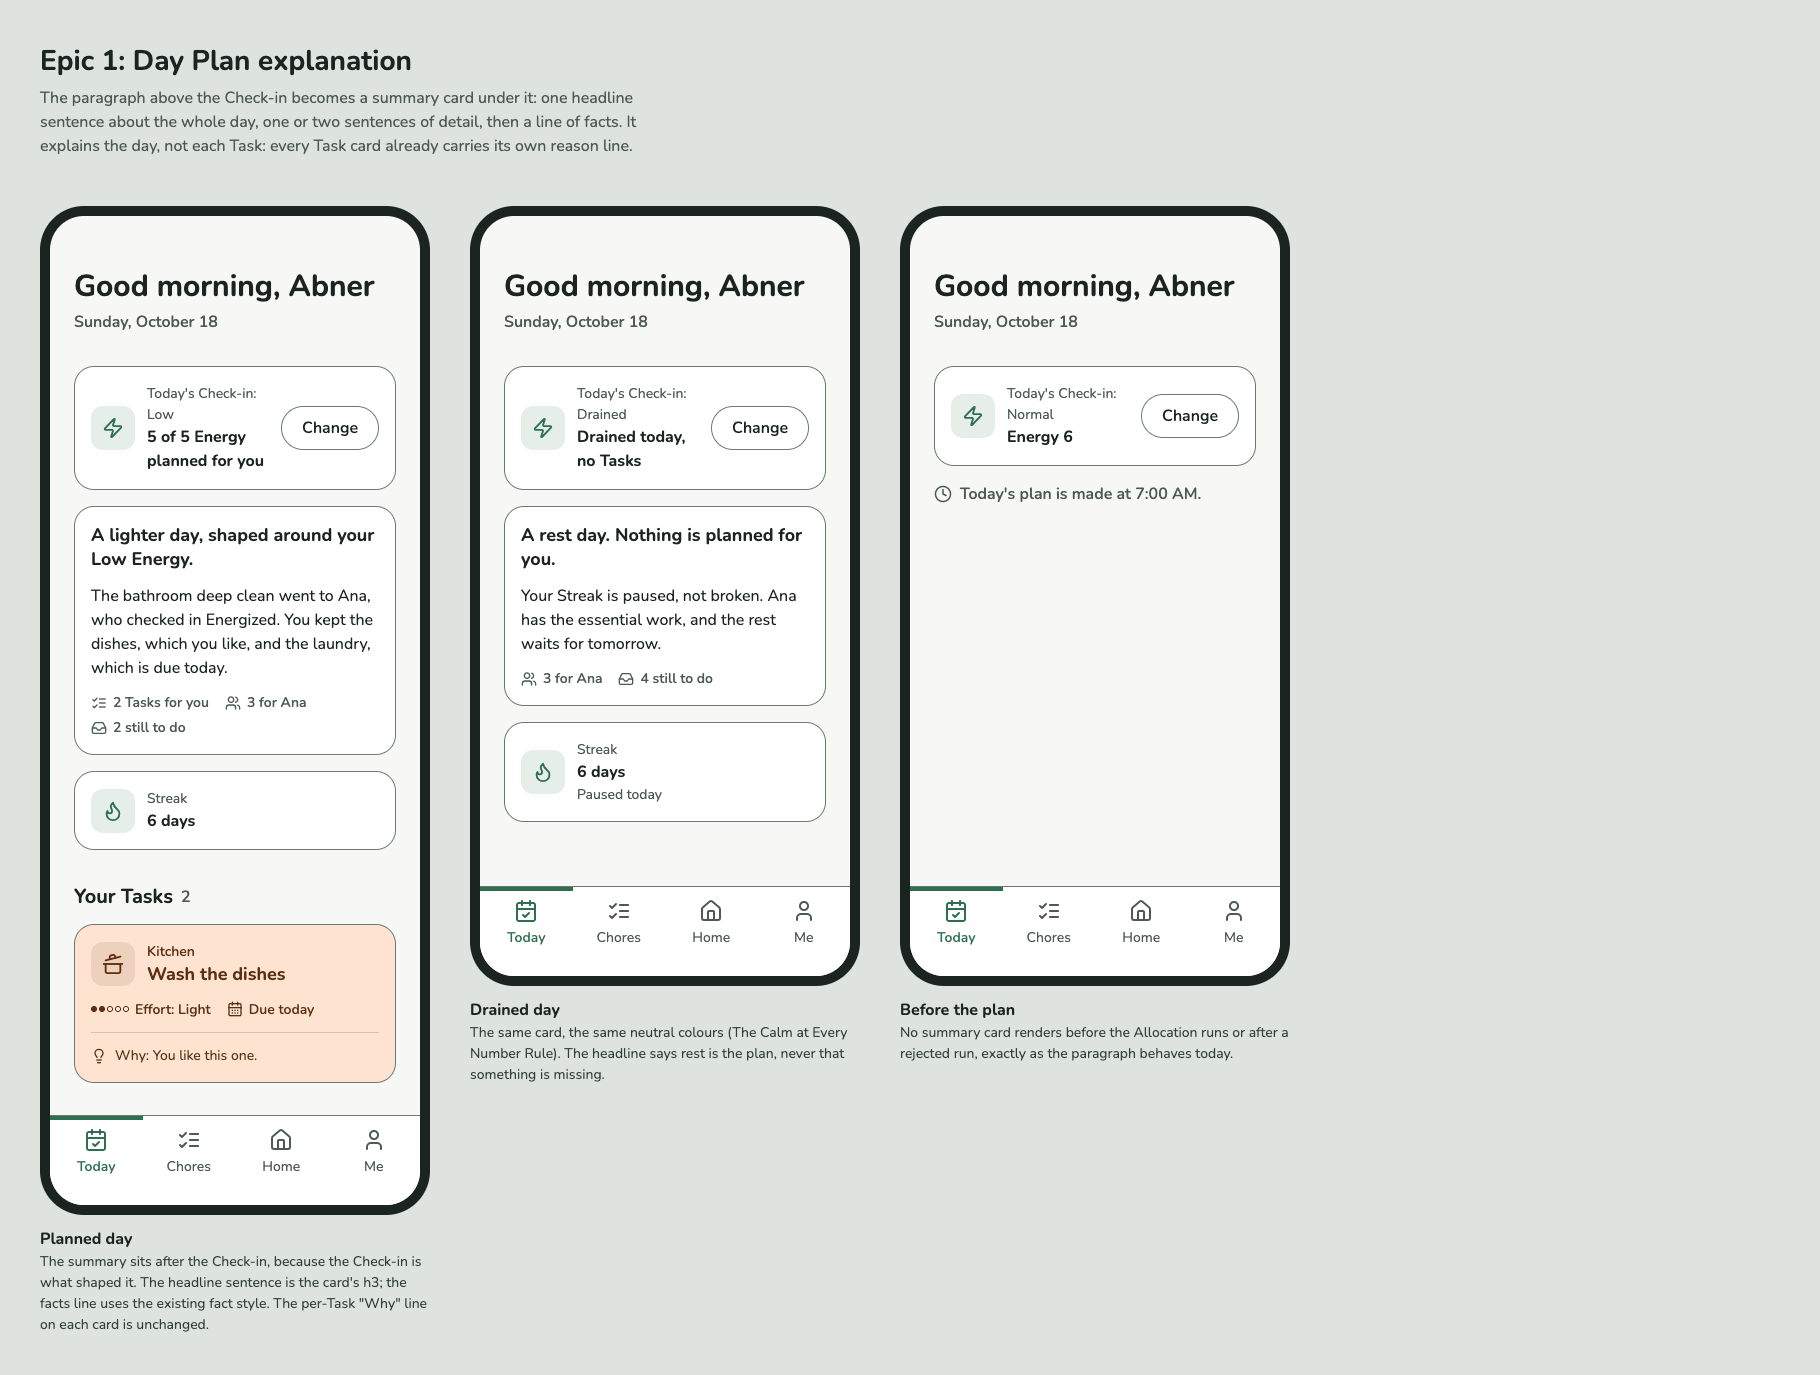
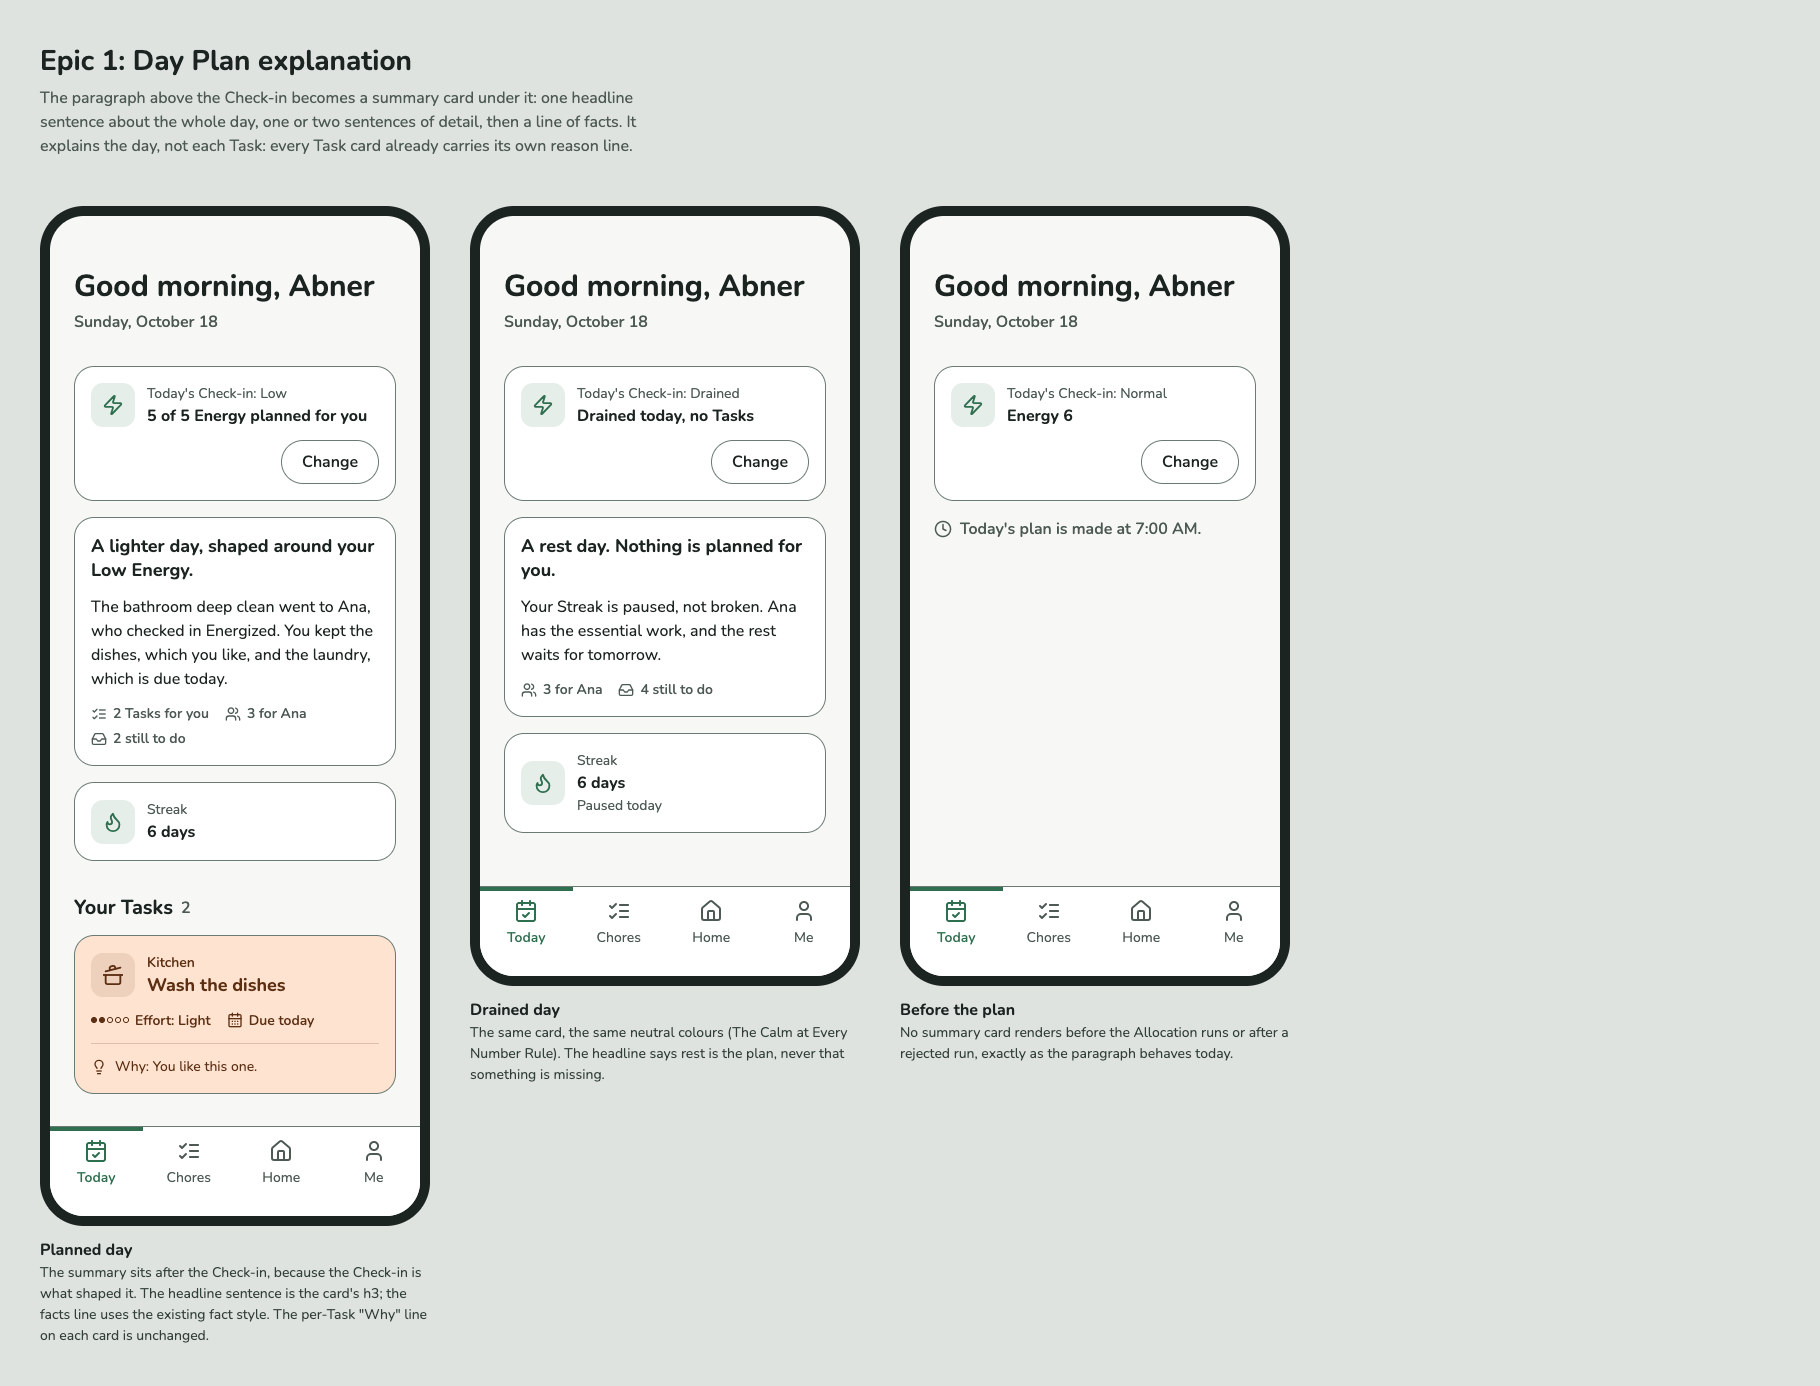
docs(design): render the mocks in pt-BR and let the check-in action wrap

diff --git a/docs/design/mocks-i18n.js b/docs/design/mocks-i18n.js
@@ -1,0 +1,134 @@
+// Open a board with ?lang=pt-BR to render its phones in Brazilian Portuguese. Wording comes from the shipped
+// catalog (web/src/shared/i18n/catalogs/pt-BR.ts) where it exists; new strings follow docs/glossary-pt-BR.md.
+// Captions and board headers stay in English. Any phone string without a translation is logged to the console.
+const PT = {
+  "Good morning, Abner": "Bom dia, Abner",
+  "Sunday, October 18": "domingo, 18 de outubro",
+  "Today's Check-in: Low": "Check-in de hoje: baixa",
+  "Today's Check-in: Drained": "Check-in de hoje: esgotado",
+  "Today's Check-in: Normal": "Check-in de hoje: normal",
+  "5 of 5 Energy planned for you": "5 de 5 planejados",
+  "Change": "Mudar",
+  "A lighter day, shaped around your Low Energy.": "Um dia mais leve, pensado na sua energia baixa.",
+  "The bathroom deep clean went to Ana, who checked in Energized. You kept the dishes, which you like, and the laundry, which is due today.":
+    "A faxina do banheiro ficou com a Ana, que está energizada. Você ficou com a louça, de que gosta, e a roupa, que é para hoje.",
+  "2 Tasks for you": "2 tarefas suas",
+  "3 for Ana": "3 da Ana",
+  "2 still to do": "2 por fazer",
+  "4 still to do": "4 por fazer",
+  "Streak": "Sequência",
+  "6 days": "6 dias",
+  "11 days": "11 dias",
+  "Your Tasks": "Suas tarefas",
+  "Kitchen": "Cozinha",
+  "Bathroom": "Banheiro",
+  "Laundry": "Roupas",
+  "Floors": "Pisos",
+  "Trash": "Lixo",
+  "Wash the dishes": "Lavar a louça",
+  "Fold the laundry": "Dobrar a roupa",
+  "Take out the recycling": "Levar o reciclável",
+  "Take out the trash": "Levar o lixo",
+  "Clean the sink": "Limpar a pia",
+  "Vacuum the living room": "Aspirar a sala",
+  "Deep clean the shower": "Faxinar o box",
+  "Clean the stove": "Limpar o fogão",
+  "Effort: Light": "Esforço: leve",
+  "Effort: Moderate": "Esforço: médio",
+  "Effort: Very light": "Esforço: muito leve",
+  "Effort: Heavy": "Esforço: pesado",
+  "Due today": "Para hoje",
+  "Due Oct 20": "Para 20 de out.",
+  "Why: You like this one.": "Por quê: você gosta deste.",
+  "Why: It is due today.": "Por quê: é para hoje.",
+  "Why: No one has enough Energy left today.": "Por quê: ninguém tem energia sobrando hoje.",
+  "Today": "Hoje",
+  "Chores": "Afazeres",
+  "Home": "Lar",
+  "Me": "Eu",
+  "Drained today, no Tasks": "Esgotado hoje, sem tarefas",
+  "A rest day. Nothing is planned for you.": "Dia de descanso. Nada planejado para você.",
+  "Your Streak is paused, not broken. Ana has the essential work, and the rest waits for tomorrow.":
+    "Sua sequência está pausada, não perdida. A Ana ficou com o essencial e o resto espera amanhã.",
+  "Paused today": "Pausada hoje",
+  "Energy 6": "Energia 6",
+  "Today's plan is made at 7:00 AM.": "O plano de hoje é feito às 7:00.",
+  "Refuse": "Recusar",
+  "Accept": "Aceitar",
+  "Committed": "Assumida",
+  "Done": "Concluir",
+  "Still to do": "Ainda por fazer",
+  "Take": "Pegar",
+  "Done today": "Concluídas hoje",
+  "Done at 8:42 AM": "Concluída às 8:42",
+  "Done at 9:15 AM with": "Concluída às 9:15 com",
+  "Review this Home's Chores": "Revise os afazeres do lar",
+  "We picked 12 Chores from your answers. Untick any you do not need.":
+    "Escolhemos 12 afazeres pelas suas respostas. Desmarque os que não precisar.",
+  "Back": "Voltar",
+  "Add 12 Chores": "Adicionar 12",
+  "6-day Streak": "Sequência de 6 dias",
+  "Baseline": "Energia base",
+  "Your usual Energy on each day of the week. Your Check-in adjusts it for the day.":
+    "Sua energia de costume em cada dia da semana. O check-in ajusta para o dia.",
+  "Preferences": "Preferências",
+  "Work you like is planned for you more often. Essential work still comes first.":
+    "Tarefas de que você gosta entram mais no seu plano. O essencial ainda vem primeiro.",
+  "Restrictions": "Restrições",
+  "Work you cannot do. You are never given it.": "Trabalho que você não pode fazer. Ele nunca é dado a você.",
+  "Add your name and photo": "Adicionar nome e foto",
+  "Mon": "seg", "Tue": "ter", "Wed": "qua", "Thu": "qui", "Fri": "sex", "Sat": "sáb", "Sun": "dom",
+  "Low": "Baixa", "Normal": "Normal", "High": "Alta",
+  "Your name and photo": "Seu nome e foto",
+  "Residents of your Home see these. Both are optional.": "Os moradores do seu lar veem isto. Os dois são opcionais.",
+  "Name": "Nome",
+  "Up to 40 characters.": "Até 40 caracteres.",
+  "Photo": "Foto",
+  "On your page": "Na sua página",
+  "In lists": "Em listas",
+  "Remove": "Remover",
+  "Choose another": "Escolher outra",
+  "Cancel": "Cancelar",
+  "Save": "Salvar",
+  "Other Residents' Tasks": "Tarefas dos outros moradores",
+  "Swap offer": "Oferta de troca",
+  "offers": "oferece",
+  "for your": "pela sua",
+  "Decline": "Recusar",
+  "Accept swap": "Aceitar troca",
+  "Your Home": "Seu lar",
+  "Plans at 7:00 AM, America/Sao Paulo": "Os planos são feitos às 7:00, horário de America/Sao Paulo.",
+  "Residents": "Moradores",
+  "You": "Você",
+  "2 done today": "2 hoje",
+  "3 done today": "3 hoje",
+  "Invite a Resident": "Convidar um morador",
+  "A single-use link, valid for seven days.": "Um link de uso único para quem mora com você. Vale por sete dias.",
+  "Share an invite link": "Compartilhar link do convite",
+  "Home settings": "Ajustes do lar",
+  "Name, planning time and time zone.": "Nome, horário do plano e fuso.",
+  "Leave Home": "Sair deste lar",
+  "day Streak": "dias de sequência",
+  "Tasks done in 7 days": "concluídas em 7 dias",
+  "Done lately": "Concluídas recentemente",
+  "Bathroom · 9:02 AM": "Banheiro · 9:02",
+  "Floors · 9:15 AM, with Abner": "Pisos · 9:15, com Abner",
+  "Yesterday": "Ontem",
+  "Kitchen · 7:40 PM": "Cozinha · 19:40",
+  "Nothing completed in the last 7 days.": "Nada concluído nos últimos 7 dias.",
+};
+
+if (new URLSearchParams(location.search).get("lang") === "pt-BR") {
+  const missing = new Set();
+  for (const phone of document.querySelectorAll(".phone")) {
+    phone.lang = "pt-BR";
+    const walker = document.createTreeWalker(phone, NodeFilter.SHOW_TEXT);
+    for (let node = walker.nextNode(); node; node = walker.nextNode()) {
+      const text = node.textContent.trim();
+      if (!text || /^[\d.]+$|^[A-Z]{2}$|@|^abnerwill|^jrocha$|^Abner$|^Ana$/.test(text)) continue;
+      if (text in PT) node.textContent = node.textContent.replace(text, PT[text]);
+      else missing.add(text);
+    }
+  }
+  if (missing.size) console.log("[mocks-i18n] missing:", JSON.stringify([...missing]));
+}

diff --git a/docs/design/epic-1-day-explanation.html b/docs/design/epic-1-day-explanation.html
@@ -28,7 +28,7 @@
         </div>
 
         <section class="card">
-          <div class="row">
+          <div class="row wrap">
             <span class="tile accent"><i data-lucide="zap"></i></span>
             <div class="grow">
               <p class="sm muted">Today's Check-in: Low</p>
@@ -76,7 +76,7 @@
           <p class="page-sub">Sunday, October 18</p>
         </div>
         <section class="card">
-          <div class="row">
+          <div class="row wrap">
             <span class="tile accent"><i data-lucide="zap"></i></span>
             <div class="grow"><p class="sm muted">Today's Check-in: Drained</p><p class="bold">Drained today, no Tasks</p></div>
             <button class="btn">Change</button>
@@ -108,7 +108,7 @@
           <p class="page-sub">Sunday, October 18</p>
         </div>
         <section class="card">
-          <div class="row">
+          <div class="row wrap">
             <span class="tile accent"><i data-lucide="zap"></i></span>
             <div class="grow"><p class="sm muted">Today's Check-in: Normal</p><p class="bold">Energy 6</p></div>
             <button class="btn">Change</button>
@@ -121,6 +121,7 @@
     <figcaption><strong>Before the plan</strong>No summary card renders before the Allocation runs or after a rejected run, exactly as the paragraph behaves today.</figcaption>
   </figure>
 </main>
+<script src="mocks-i18n.js"></script>
 <script src="https://unpkg.com/lucide@0.460.0/dist/umd/lucide.min.js"></script>
 <script>lucide.createIcons();</script>
 </body>

diff --git a/docs/design/mocks.css b/docs/design/mocks.css
@@ -176,3 +176,8 @@ label.field { display: flex; flex-direction: column; gap: 0.25rem; font-weight: 
 .note { position: absolute; z-index: 2; background: #1c2421; color: #fff; font-size: 0.75rem; font-weight: 700; padding: 0.125rem 0.5rem; border-radius: 99px; }
 
 svg { stroke-width: 2; }
+
+/* A row whose action drops to its own end-aligned line when the text needs the width (pt-BR runs longer). */
+.row.wrap { flex-wrap: wrap; }
+.row.wrap > .grow { flex-basis: 10rem; }
+.row.wrap > .btn { margin-left: auto; }

diff --git a/docs/design/epic-2-today-polish.html b/docs/design/epic-2-today-polish.html
@@ -125,6 +125,7 @@
     <figcaption><strong>Pending and dialogs</strong>A pending action shows an inline spinner in its own button, label kept so the width holds; the rest of the plan's buttons are disabled. The Chores review follows the same rule: Back left, the confirming action right.</figcaption>
   </figure>
 </main>
+<script src="mocks-i18n.js"></script>
 <script src="https://unpkg.com/lucide@0.460.0/dist/umd/lucide.min.js"></script>
 <script>lucide.createIcons();</script>
 </body>

diff --git a/docs/design/epic-3-resident-identity.html b/docs/design/epic-3-resident-identity.html
@@ -151,6 +151,7 @@
     <figcaption><strong>Names everywhere</strong>The greeting uses the display name when set. "Resident 1" becomes the avatar and name, in the others' Tasks and in swap offers.</figcaption>
   </figure>
 </main>
+<script src="mocks-i18n.js"></script>
 <script src="https://unpkg.com/lucide@0.460.0/dist/umd/lucide.min.js"></script>
 <script>lucide.createIcons();</script>
 </body>

diff --git a/docs/design/epic-4-housemates.html b/docs/design/epic-4-housemates.html
@@ -147,6 +147,7 @@
     <figcaption><strong>Home skeleton</strong>Round avatar placeholders in the Residents card, then the Invite card's shape. Same 300ms delay and motion-safe pulse as Today.</figcaption>
   </figure>
 </main>
+<script src="mocks-i18n.js"></script>
 <script src="https://unpkg.com/lucide@0.460.0/dist/umd/lucide.min.js"></script>
 <script>lucide.createIcons();</script>
 </body>

diff --git a/docs/design/README.md b/docs/design/README.md
@@ -1,12 +1,12 @@
 # Design mocks
 
-Mocks for the post-v1 epics, built against [`DESIGN.md`](../../DESIGN.md). Each board is a static HTML page (open it in a browser) with a PNG render for GitHub. Copy in the mocks is illustrative; the i18n catalogs own the real wording.
+Mocks for the post-v1 epics, built against [`DESIGN.md`](../../DESIGN.md). Each board is a static HTML page (open it in a browser; add `?lang=pt-BR` for Brazilian Portuguese) with a PNG render per locale for GitHub. `mocks-i18n.js` holds the pt-BR wording, taken from the shipped catalog where it exists. Copy in the mocks is illustrative; the i18n catalogs own the real wording.
 
-| Epic | Board |
-|---|---|
-| 1. Day Plan explanation | [HTML](epic-1-day-explanation.html) · ![Epic 1](epic-1-day-explanation.png) |
-| 2. Today polish | [HTML](epic-2-today-polish.html) · ![Epic 2](epic-2-today-polish.png) |
-| 3. Resident identity | [HTML](epic-3-resident-identity.html) · ![Epic 3](epic-3-resident-identity.png) |
-| 4. Housemates | [HTML](epic-4-housemates.html) · ![Epic 4](epic-4-housemates.png) |
+| Epic | en-US | pt-BR |
+|---|---|---|
+| 1. Day Plan explanation | [HTML](epic-1-day-explanation.html) · ![Epic 1](epic-1-day-explanation.png) | ![Epic 1 pt-BR](epic-1-day-explanation.pt-BR.png) |
+| 2. Today polish | [HTML](epic-2-today-polish.html) · ![Epic 2](epic-2-today-polish.png) | ![Epic 2 pt-BR](epic-2-today-polish.pt-BR.png) |
+| 3. Resident identity | [HTML](epic-3-resident-identity.html) · ![Epic 3](epic-3-resident-identity.png) | ![Epic 3 pt-BR](epic-3-resident-identity.pt-BR.png) |
+| 4. Housemates | [HTML](epic-4-housemates.html) · ![Epic 4](epic-4-housemates.png) | ![Epic 4 pt-BR](epic-4-housemates.pt-BR.png) |
 
 `mocks.css` mirrors the tokens in `web/src/index.css`; it is not imported by the app.
